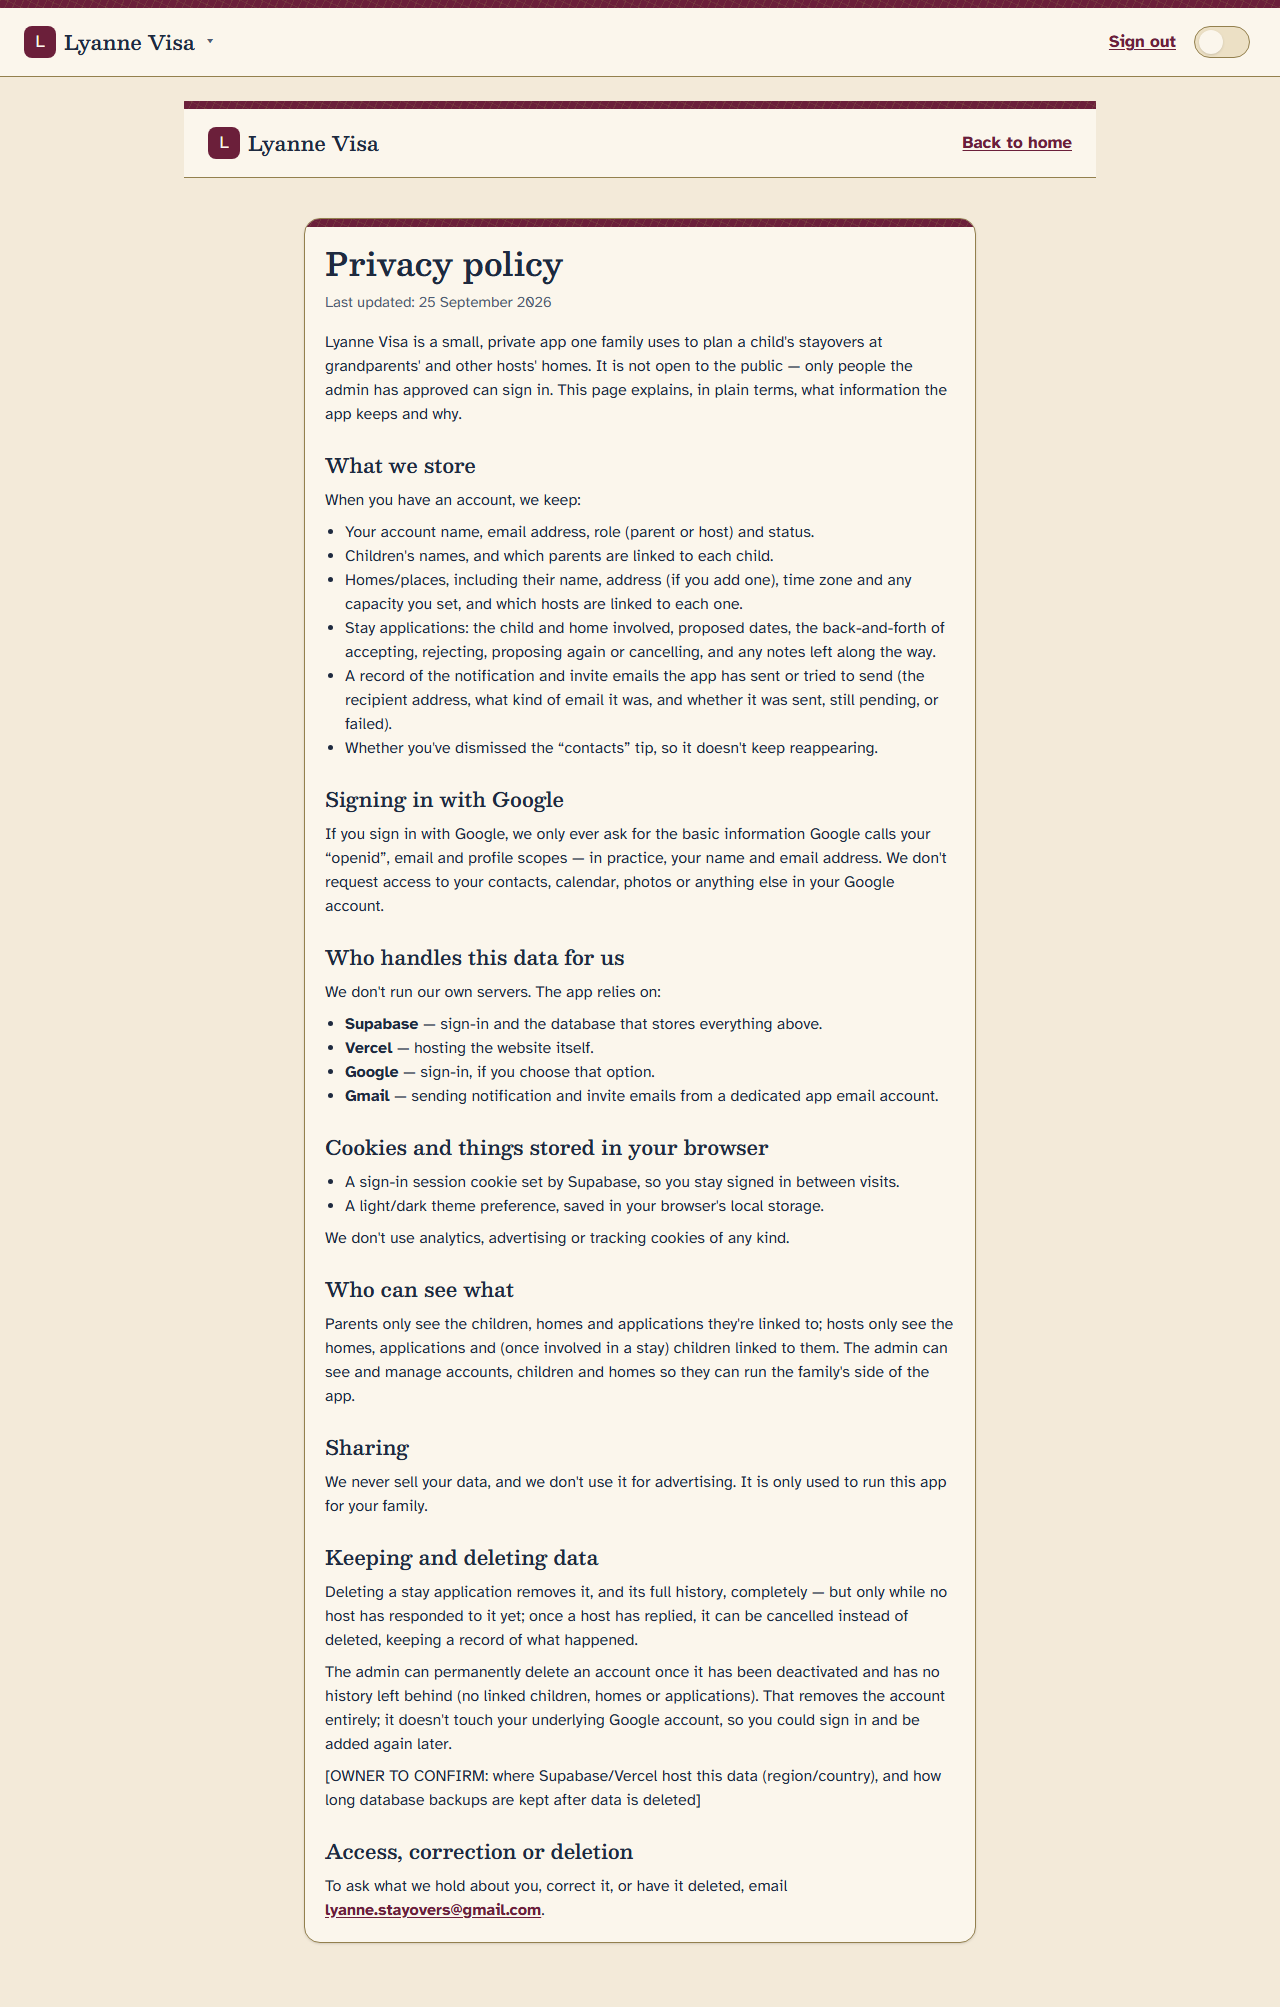
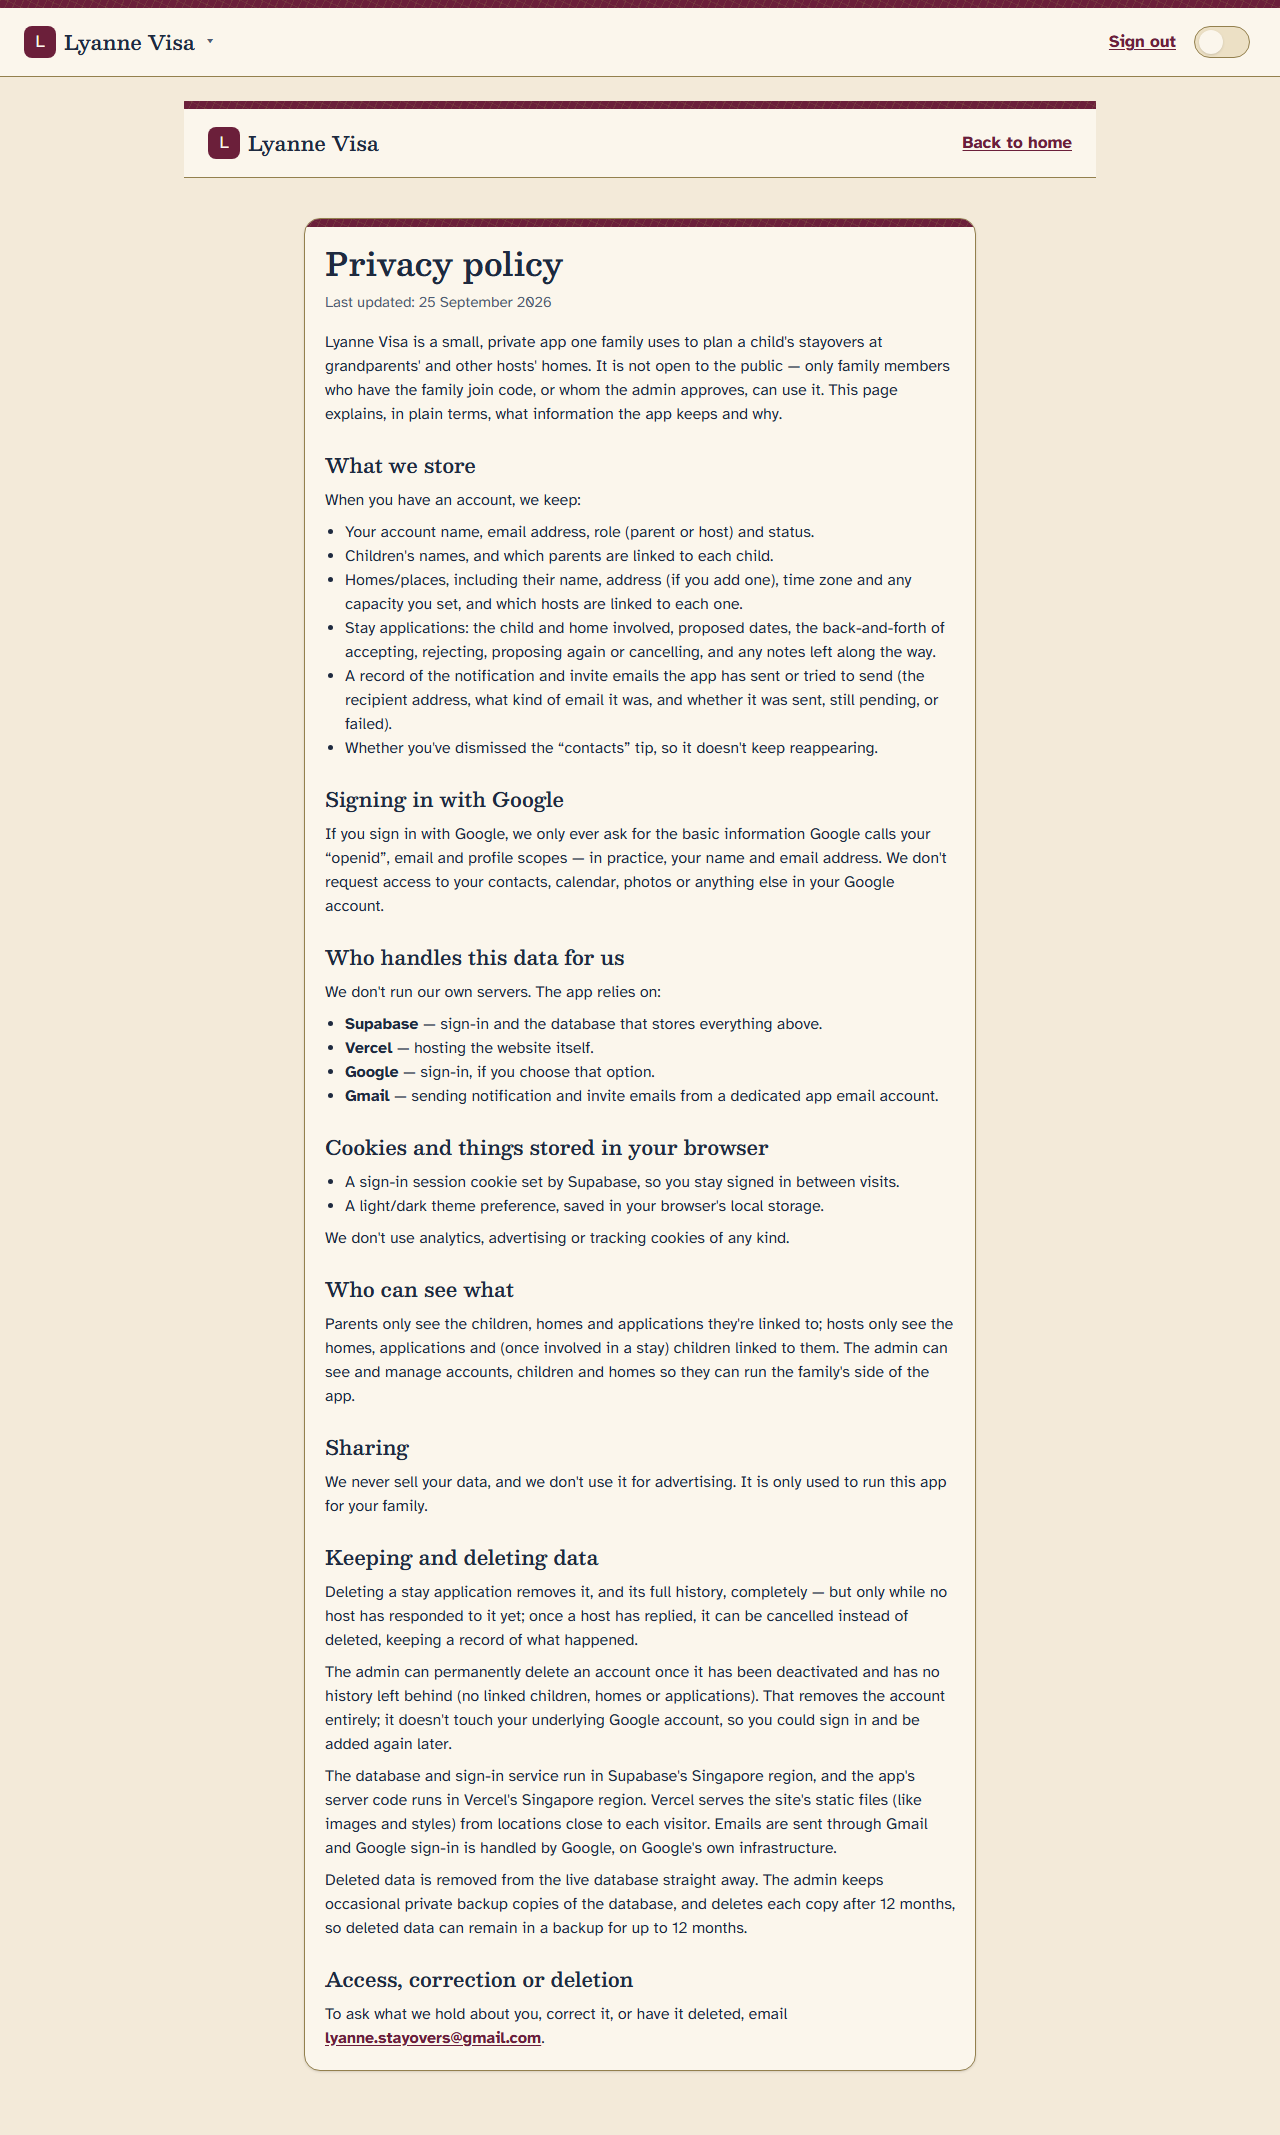
Privacy: owner-approved copy, pin Vercel region to Singapore
Owner-reviewed changes to the /privacy draft: the intro sentence now
describes both ways onto the app (family join code, or admin approval)
rather than just admin approval; the [OWNER TO CONFIRM] data-location/
backups placeholder is replaced with the owner's own facts (Supabase +
Vercel both in Singapore, Gmail/Google on their own infrastructure;
deleted data leaves the live database immediately, backups purged after
12 months).

Also pins Vercel Functions to Singapore (vercel.json's regions: ["sin1"])
next to the Supabase project (ap-southeast-1) - otherwise Vercel's
default iad1 region would put a US<->Singapore round trip on every DB
query. Documented in setup.md §7, right after the Deploy step.

Changed region(s): [[0.0312, 0.0, 0.875, 0.9576], [0.9375, 0.0, 0.9688, 0.0309], [0.875, 0.0, 0.9062, 0.0309]]

diff --git a/src/ui/screens/Privacy.tsx b/src/ui/screens/Privacy.tsx
@@ -54,8 +54,9 @@ export function Privacy() {
           <p className="mt-4 text-[16px] text-text">
             Lyanne Visa is a small, private app one family uses to plan a child&apos;s
             stayovers at grandparents&apos; and other hosts&apos; homes. It is not open to
-            the public — only people the admin has approved can sign in. This page explains,
-            in plain terms, what information the app keeps and why.
+            the public — only family members who have the family join code, or whom the
+            admin approves, can use it. This page explains, in plain terms, what information
+            the app keeps and why.
           </p>
 
           <Section title="What we store">
@@ -126,8 +127,16 @@ export function Privacy() {
               account, so you could sign in and be added again later.
             </p>
             <p>
-              [OWNER TO CONFIRM: where Supabase/Vercel host this data (region/country), and
-              how long database backups are kept after data is deleted]
+              The database and sign-in service run in Supabase&apos;s Singapore region, and
+              the app&apos;s server code runs in Vercel&apos;s Singapore region. Vercel serves
+              the site&apos;s static files (like images and styles) from locations close to
+              each visitor. Emails are sent through Gmail and Google sign-in is handled by
+              Google, on Google&apos;s own infrastructure.
+            </p>
+            <p>
+              Deleted data is removed from the live database straight away. The admin keeps
+              occasional private backup copies of the database, and deletes each copy after
+              12 months, so deleted data can remain in a backup for up to 12 months.
             </p>
           </Section>
 

diff --git a/docs/stayover/general/setup.md b/docs/stayover/general/setup.md
@@ -147,6 +147,7 @@ Google calls this area **Google Auth Platform** (it replaced the old "OAuth cons
     - `DELIVERY_FROM_ADDRESS` → `lyanne.stayovers@gmail.com`
     - `DELIVERY_WORKER_SECRET` (the value you generated and hashed into Supabase in step 6)
 - [ ] Click **"Deploy"**, wait 2–3 minutes
+- [ ] Function region is pinned to Singapore (`sin1`) by `vercel.json`, next to the Supabase project (ap-southeast-1). Check it under **Project → Settings → Functions → Function Regions** after the first deploy.
 - [ ] After the first deploy, note these:
   - Your production URL (shown on the Deployments page, e.g., `https://lyanne-visa-abc123.vercel.app`)
   - The app is deployed to production only if merged to the default branch (`main`); other branches get preview URLs. If your work is on `feat/foundation`, merge it to `main` first (or change the production branch in **Project → Settings → Git**)
